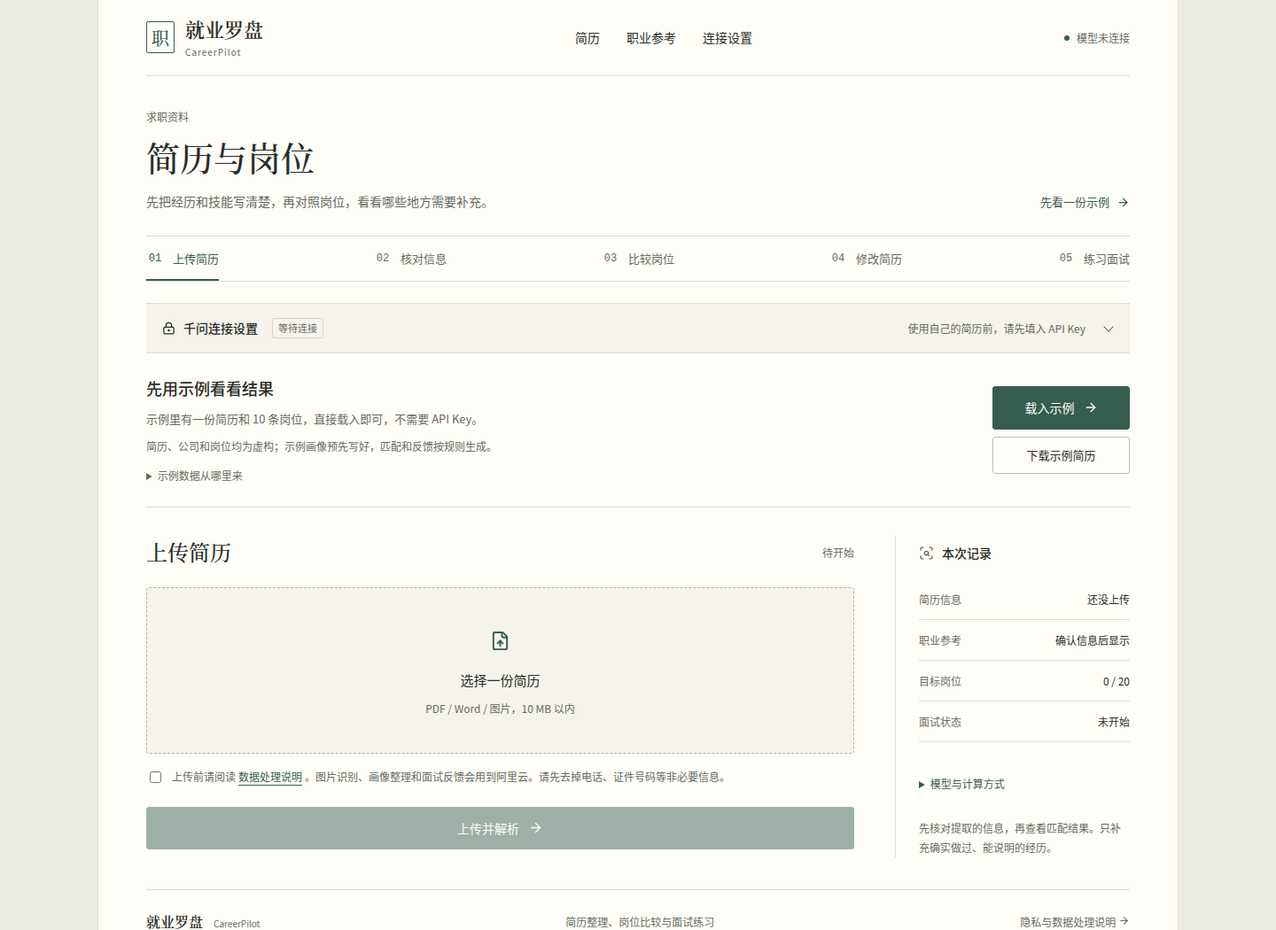
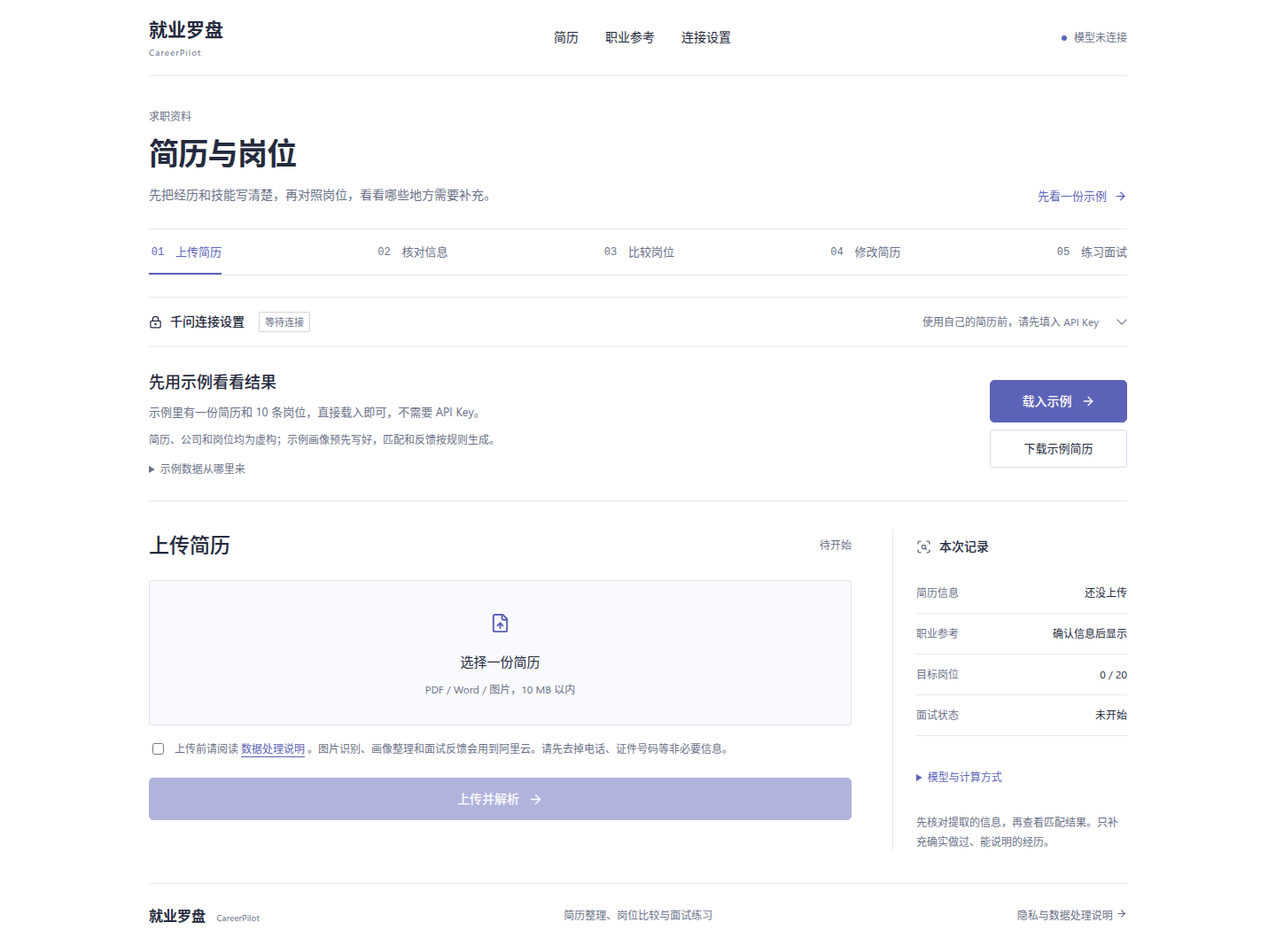
Apply restrained blue-violet palette and unified sans-serif typography

diff --git a/frontend/app/globals.css b/frontend/app/globals.css
@@ -1,49 +1,48 @@
 :root {
-  --ink: #292d28;
-  --muted: #656b61;
-  --line: #deded3;
-  --paper: #fffdf8;
-  --surface: #f5f3ec;
-  --canvas: #ecebe3;
-  --accent: #355e50;
-  --accent-dark: #24483c;
-  --accent-soft: #eaf0e6;
-  --star: #9c742c;
-  --danger: #994b36;
-  --font-body: "PingFang SC", "Microsoft YaHei", "Noto Sans CJK SC", sans-serif;
-  --font-heading: "Noto Serif CJK SC", "Source Han Serif SC", "Songti SC", "STSong", "SimSun", serif;
+  --ink: #242a3d;
+  --muted: #697187;
+  --line: #e5e8f0;
+  --paper: #ffffff;
+  --surface: #f9fafd;
+  --canvas: #ffffff;
+  --accent: #5c63b7;
+  --accent-dark: #454d9b;
+  --accent-soft: #f2f3fb;
+  --star: #7168b1;
+  --danger: #b42318;
+  --font-body: -apple-system, BlinkMacSystemFont, "Segoe UI", "PingFang SC", "Microsoft YaHei", "Noto Sans CJK SC", sans-serif;
+  --font-heading: var(--font-body);
   --font-data: "SFMono-Regular", "Cascadia Code", "Liberation Mono", monospace;
 }
 * { box-sizing: border-box; }
 html { scroll-behavior: smooth; scroll-padding-top: 24px; background: var(--canvas); }
 body { margin: 0; color: var(--ink); background: var(--canvas); font: 400 15px/1.75 var(--font-body); -webkit-font-smoothing: antialiased; }
-::selection { color: #fff; background: var(--accent); }
+::selection { color: #ffffff; background: var(--accent); }
 button, input, select, textarea { font: inherit; }
 a { color: inherit; text-underline-offset: 4px; }
 button, a, input, select, textarea, summary { -webkit-tap-highlight-color: transparent; }
 :where(button, a, input, select, textarea, summary):focus-visible { outline: 2px solid var(--accent); outline-offset: 4px; }
 button:disabled { cursor: not-allowed; opacity: .48; }
 button svg, .notice svg, .config-privacy svg { flex-shrink: 0; }
-.shell { max-width: 1220px; min-height: 100vh; margin: 0 auto; padding: 0 54px 28px; background: var(--paper); border-inline: 1px solid #dcdccf; }
-.skip-link { position: fixed; top: 12px; left: 12px; z-index: 20; padding: 10px 18px; background: var(--accent); color: #fff; transform: translateY(-160%); }
+.shell { max-width: 1200px; min-height: 100vh; margin: 0 auto; padding: 0 48px 28px; background: var(--paper); }
+.skip-link { position: fixed; top: 12px; left: 12px; z-index: 20; padding: 10px 18px; background: var(--accent); color: #ffffff; transform: translateY(-160%); }
 .skip-link:focus { transform: translateY(0); }
 .topbar { min-height: 86px; display: flex; align-items: center; justify-content: space-between; gap: 24px; border-bottom: 1px solid var(--line); }
-.brand { display: inline-flex; align-items: center; gap: 12px; color: var(--ink); text-decoration: none; font: 600 22px/1.2 var(--font-heading); }
-.brand-mark { display: grid; place-items: center; width: 32px; height: 36px; border: 1px solid var(--accent); color: var(--accent); font: 500 20px var(--font-heading); border-radius: 2px; }
+.brand { display: inline-flex; align-items: center; gap: 12px; color: var(--ink); text-decoration: none; font: 600 21px/1.2 var(--font-heading); }
 .brand small { display: block; margin-top: 7px; color: var(--muted); font: 400 10px/1.2 var(--font-body); letter-spacing: 1px; }
 .topnav { display: flex; gap: 30px; }
 .topnav a { font-size: 14px; text-decoration: none; }
 .topnav a:hover, .text-link:hover { color: var(--accent); text-decoration: underline; }
 .topbar-meta { display: flex; align-items: center; gap: 8px; color: var(--muted); font-size: 12px; }
-.status-dot, .mini-dot { display: inline-block; flex-shrink: 0; width: 6px; height: 6px; border-radius: 50%; background: #989d91; }
+.status-dot, .mini-dot { display: inline-block; flex-shrink: 0; width: 6px; height: 6px; border-radius: 50%; background: #9b9b9b; }
 .status-dot.online { background: var(--accent); }
 .status-dot.offline { background: var(--danger); }
 .workspace-intro { display: flex; justify-content: space-between; align-items: flex-end; gap: 24px; padding: 35px 0 26px; }
-.workspace-intro h1 { margin: 0; font: 500 clamp(30px, 3vw, 38px)/1.4 var(--font-heading); letter-spacing: 0; }
+.workspace-intro h1 { margin: 0; font: 600 clamp(29px, 3vw, 34px)/1.35 var(--font-heading); letter-spacing: -.7px; }
 .workspace-intro > div > p:last-child { margin: 12px 0 0; color: var(--muted); font-size: 14px; }
 .page-label { margin: 0 0 8px; color: var(--muted); font-size: 12px; }
 .text-link { display: inline-flex; align-items: center; gap: 8px; color: var(--accent); font-size: 13px; text-decoration: none; white-space: nowrap; }
-h2 { margin: 0; font: 500 24px/1.5 var(--font-heading); }
+h2 { margin: 0; font: 500 23px/1.5 var(--font-heading); }
 h3, h4 { margin: 0; font-weight: 600; }
 .stepper { display: flex; justify-content: space-between; gap: 20px; border-block: 1px solid var(--line); }
 .step { display: flex; align-items: center; gap: 10px; padding: 14px 0 12px; color: var(--muted); border-bottom: 2px solid transparent; text-decoration: none; font-size: 13px; white-space: nowrap; }
@@ -51,33 +50,33 @@ h3, h4 { margin: 0; font-weight: 600; }
 .step.complete { color: var(--ink); }
 .step-index { display: grid; place-items: center; min-width: 20px; font: 400 12px var(--font-data); color: var(--muted); }
 .step.active .step-index, .step.complete .step-index { color: var(--accent); }
-.cloud-panel { margin-top: 24px; border-block: 1px solid var(--line); background: var(--surface); }
-.connection-summary { display: flex; align-items: center; gap: 16px; padding: 15px 18px; cursor: pointer; list-style: none; }
+.cloud-panel { margin-top: 24px; border-block: 1px solid var(--line); background: transparent; }
+.connection-summary { display: flex; align-items: center; gap: 16px; padding: 15px 0; cursor: pointer; list-style: none; }
 .connection-summary::-webkit-details-marker { display: none; }
 .connection-name { display: inline-flex; align-items: center; gap: 9px; font-weight: 500; font-size: 14px; }
 .connection-summary-note { margin-left: auto; color: var(--muted); font-size: 12px; }
 .connection-toggle { display: block; width: 8px; height: 8px; margin: -4px 2px 0 6px; border-right: 1px solid var(--muted); border-bottom: 1px solid var(--muted); transform: rotate(45deg); }
 .cloud-panel[open] .connection-toggle { transform: rotate(225deg); margin-top: 4px; }
-.connection-body { display: grid; grid-template-columns: .72fr 1.28fr; gap: 48px; padding: 25px 26px 28px; border-top: 1px solid var(--line); }
+.connection-body { display: grid; grid-template-columns: .72fr 1.28fr; gap: 48px; padding: 25px 0 28px; border-top: 1px solid var(--line); }
 .cloud-intro > p { margin: 14px 0 0; max-width: 280px; color: var(--muted); font-size: 14px; line-height: 1.9; }
 .cloud-intro .connection-note { font-size: 12px; }
 .cloud-form { min-width: 0; }
-.connection-badge { display: inline-block; padding: 1px 6px; color: var(--muted); border: 1px solid #d3d7ca; border-radius: 2px; font-size: 11px; white-space: nowrap; }
-.connection-badge.connected { color: var(--accent); border-color: #bfcfbb; background: var(--accent-soft); }
+.connection-badge { display: inline-block; padding: 1px 6px; color: var(--muted); border: 1px solid #d5d5d5; border-radius: 2px; font-size: 11px; white-space: nowrap; }
+.connection-badge.connected { color: var(--accent); border-color: #d9ddf3; background: var(--accent-soft); }
 .field-label { display: block; margin-top: 16px; color: var(--ink); font-size: 14px; }
-.text-input, .job-input { width: 100%; border: 1px solid #c9cebf; border-radius: 3px; color: var(--ink); background: #fffefa; font-size: 15px; }
+.text-input, .job-input { width: 100%; border: 1px solid #d5dbea; border-radius: 3px; color: var(--ink); background: #fefefe; font-size: 15px; }
 .text-input { height: 44px; padding: 0 12px; margin-top: 7px; }
-.text-input::placeholder, .job-input::placeholder { color: #7d8477; }
-.text-input:focus, .job-input:focus { outline: 2px solid #d8e2d0; border-color: var(--accent); }
-.text-input:disabled { color: var(--muted); background: #efeee7; }
+.text-input::placeholder, .job-input::placeholder { color: #828282; }
+.text-input:focus, .job-input:focus { outline: 2px solid #e6e8f8; border-color: var(--accent); }
+.text-input:disabled { color: var(--muted); background: #eeeeee; }
 .key-input { font-family: var(--font-data); font-size: 14px; }
 .key-help { margin: 10px 0 0; color: var(--muted); font-size: 12px; line-height: 1.8; }
 .config-fields { display: grid; grid-template-columns: 1fr 1fr; gap: 18px; }
 .config-privacy { display: flex; align-items: flex-start; gap: 8px; margin: 17px 0 18px; color: var(--muted); font-size: 12px; }
 .config-privacy svg { margin-top: 3px; }
-.primary-button { display: inline-flex; align-items: center; justify-content: center; gap: 10px; width: 100%; min-height: 44px; margin-top: 16px; padding: 11px 20px; color: #fffdf8; background: var(--accent); border: 1px solid var(--accent); border-radius: 3px; cursor: pointer; font-size: 14px; text-decoration: none; }
+.primary-button { display: inline-flex; align-items: center; justify-content: center; gap: 10px; width: 100%; min-height: 44px; margin-top: 16px; padding: 11px 20px; color: #fdfdfd; background: var(--accent); border: 1px solid var(--accent); border-radius: 5px; cursor: pointer; font-size: 14px; font-weight: 500; text-decoration: none; }
 .primary-button:hover:not(:disabled) { background: var(--accent-dark); border-color: var(--accent-dark); }
-.secondary-button { display: inline-flex; align-items: center; justify-content: center; gap: 8px; width: 100%; min-height: 42px; margin-top: 11px; padding: 9px 17px; color: var(--ink); background: transparent; border: 1px solid #bcc4b4; border-radius: 3px; cursor: pointer; font-size: 13px; text-decoration: none; }
+.secondary-button { display: inline-flex; align-items: center; justify-content: center; gap: 8px; width: 100%; min-height: 42px; margin-top: 11px; padding: 9px 17px; color: var(--ink); background: transparent; border: 1px solid #d7dced; border-radius: 3px; cursor: pointer; font-size: 13px; text-decoration: none; }
 .secondary-button:hover:not(:disabled) { background: var(--accent-soft); border-color: var(--accent); }
 .primary-button, .secondary-button, .match-actions button { transition: background .15s, border-color .15s; }
 .compact { width: auto; margin-top: 0; }
@@ -96,7 +95,7 @@ summary { cursor: pointer; }
 .workspace-grid { display: grid; grid-template-columns: minmax(0, 1fr) 265px; gap: 46px; padding: 32px 0 36px; }
 .section-heading { display: flex; justify-content: space-between; align-items: center; gap: 18px; margin-bottom: 22px; }
 .stage-tag { color: var(--muted); font-size: 12px; white-space: nowrap; }
-.dropzone { display: flex; flex-direction: column; align-items: center; justify-content: center; position: relative; min-height: 188px; padding: 24px; border: 1px dashed #adb6a3; background: var(--surface); border-radius: 3px; cursor: pointer; }
+.dropzone { display: flex; flex-direction: column; align-items: center; justify-content: center; position: relative; min-height: 164px; padding: 24px; border: 1px solid #e0e4f0; background: var(--surface); border-radius: 3px; cursor: pointer; }
 .dropzone:hover, .dropzone:focus-within { border-color: var(--accent); background: var(--accent-soft); }
 .dropzone input { position: absolute; width: 1px; height: 1px; opacity: 0; overflow: hidden; }
 .upload-icon { display: grid; place-items: center; width: 36px; height: 38px; margin-bottom: 12px; color: var(--accent); }
@@ -107,8 +106,8 @@ summary { cursor: pointer; }
 .privacy-consent a { margin-inline: 3px; color: var(--accent); }
 .notice { display: flex; align-items: flex-start; gap: 9px; margin-top: 14px; padding: 12px 14px; border-left: 2px solid; background: var(--surface); color: var(--ink); font-size: 13px; line-height: 1.8; overflow-wrap: anywhere; }
 .notice svg { flex-shrink: 0; margin-top: 3px; }
-.notice.error { color: var(--danger); border-color: #b47b66; background: #f8efe7; }
-.notice.success { color: var(--accent-dark); border-color: #a8bda0; background: #edf2e8; }
+.notice.error { color: var(--danger); border-color: #868686; background: #f0f0f0; }
+.notice.success { color: var(--accent-dark); border-color: #b6b6b6; background: #f0f0f0; }
 .notice strong { overflow-wrap: anywhere; font-weight: 500; }
 .info-panel { align-self: start; padding: 7px 0 0 26px; border-left: 1px solid var(--line); }
 .panel-title { display: flex; align-items: center; gap: 9px; font-size: 14px; font-weight: 500; }
@@ -132,9 +131,9 @@ summary { cursor: pointer; }
 .profile-preview-head strong { font-weight: 500; }
 .profile-preview-head span { color: var(--accent); font-size: 12px; }
 .skill-list { display: flex; flex-wrap: wrap; gap: 8px; margin-top: 14px; }
-.skill-list span { padding: 3px 9px; border: 1px solid #d1d6c8; border-radius: 2px; color: #4c5648; font-size: 12px; }
+.skill-list span { padding: 3px 9px; border: 1px solid #d4d4d4; border-radius: 2px; color: #535353; font-size: 12px; }
 .skill-list small { color: var(--muted); font-size: 12px; }
-.profile-warning { margin: 13px 0 0; color: #80663f; font-size: 12px; }
+.profile-warning { margin: 13px 0 0; color: #696969; font-size: 12px; }
 .analysis-section, .next-stage { padding: 32px 0 36px; border-top: 1px solid var(--line); }
 .loading-copy { padding: 20px 0; color: var(--muted); font-size: 14px; }
 .analysis-retry .secondary-button { margin-top: 12px; }
@@ -154,7 +153,7 @@ summary { cursor: pointer; }
 .dimension ul { margin-bottom: 0; padding-left: 18px; }
 .dimension li { margin: 5px 0; overflow-wrap: anywhere; }
 .star-rating { display: inline-flex; flex-shrink: 0; gap: 3px; font-size: 18px; line-height: 1; }
-.star { position: relative; color: #d8d6c8; }
+.star { position: relative; color: #d5d5d5; }
 .star > span { position: absolute; inset: 0 auto 0 0; overflow: hidden; color: var(--star); }
 .analysis-notice { margin: 18px 0 0; color: var(--muted); font-size: 12px; }
 .analysis-notice summary { color: var(--accent); }
@@ -164,7 +163,7 @@ summary { cursor: pointer; }
 .career-rank { padding-top: 4px; color: var(--muted); font: 400 12px/1.5 var(--font-data); }
 .career-title h4 { font-size: 17px; font-weight: 500; }
 .career-title > span { display: block; margin-top: 6px; color: var(--muted); font-size: 12px; overflow-wrap: anywhere; }
-.career-reason { margin: 12px 0; color: #50584b; font-size: 14px; line-height: 1.85; overflow-wrap: anywhere; }
+.career-reason { margin: 12px 0; color: #555555; font-size: 14px; line-height: 1.85; overflow-wrap: anywhere; }
 .career-skills { display: flex; flex-wrap: wrap; gap: 5px 20px; }
 .career-skills p { margin: 0; color: var(--muted); font-size: 12px; overflow-wrap: anywhere; }
 .career-skills b { margin-right: 9px; color: var(--ink); font-weight: 500; }
@@ -176,7 +175,7 @@ summary { cursor: pointer; }
 .career-fit > strong > small { margin-left: 4px; color: var(--muted); font: 400 11px var(--font-body); }
 .career-fit .star-rating { font-size: 15px; }
 .career-fit > span:last-child { color: var(--muted); font-size: 12px; }
-.catalog-note { margin-top: 20px; padding: 17px 20px; border-left: 2px solid #b7c2ac; background: var(--surface); color: var(--muted); font-size: 12px; line-height: 1.85; overflow-wrap: anywhere; }
+.catalog-note { margin-top: 20px; padding: 17px 20px; border-left: 2px solid #bebebe; background: var(--surface); color: var(--muted); font-size: 12px; line-height: 1.85; overflow-wrap: anywhere; }
 .catalog-note strong { color: var(--ink); font-weight: 500; }
 .catalog-note p { margin: 8px 0; }
 .catalog-note details { margin-top: 10px; }
@@ -199,36 +198,36 @@ summary { cursor: pointer; }
 .match-main strong { font-size: 16px; font-weight: 500; }
 .match-main > span { color: var(--muted); font-size: 13px; }
 .match-main small { color: var(--muted); font-size: 12px; overflow-wrap: anywhere; }
-.match-main .constraint-warning { color: #87552f; }
+.match-main .constraint-warning { color: #5d5d5d; }
 .match-evidence { color: var(--muted); font-size: 12px; }
 .match-evidence summary { color: var(--accent); }
 .match-actions { display: flex; gap: 9px; margin-top: 5px; }
-.match-actions button { min-height: 34px; padding: 5px 12px; border: 1px solid #c2c9b9; border-radius: 3px; background: transparent; color: var(--ink); cursor: pointer; font-size: 12px; }
+.match-actions button { min-height: 34px; padding: 5px 12px; border: 1px solid #c6c6c6; border-radius: 3px; background: transparent; color: var(--ink); cursor: pointer; font-size: 12px; }
 .match-actions button:hover { background: var(--accent-soft); }
 .match-score { display: flex; flex-direction: column; align-items: flex-end; min-width: 50px; color: var(--accent); font: 400 29px/1.2 var(--font-heading); }
 .match-score small { margin-top: 5px; font: 400 11px/1.5 var(--font-body); }
-.match-score.risk { color: #8b653d; }
-.report-panel, .interview-panel { margin-top: 26px; padding: 4px 22px 24px; background: var(--surface); border-top: 2px solid #8c9e7e; }
+.match-score.risk { color: #6a6a6a; }
+.report-panel, .interview-panel { margin-top: 26px; padding: 4px 22px 24px; background: var(--surface); border-top: 2px solid #989898; }
 .report-columns { display: grid; grid-template-columns: repeat(3, minmax(0, 1fr)); gap: 22px; }
 .report-columns > div { padding: 14px 0; }
 .report-columns b, .report-notes b, .report-checklist b { font-size: 14px; font-weight: 500; }
-.report-columns p, .interview-summary p { color: #545d4e; font-size: 14px; line-height: 1.85; overflow-wrap: anywhere; }
+.report-columns p, .interview-summary p { color: #5a5a5a; font-size: 14px; line-height: 1.85; overflow-wrap: anywhere; }
 .report-notes, .report-checklist { margin: 20px 0; color: var(--muted); font-size: 13px; }
 .report-checklist ul { display: grid; grid-template-columns: 1fr 1fr; gap: 8px 22px; margin: 12px 0 0; padding: 0; list-style: none; }
 .report-checklist li { display: flex; gap: 8px; align-items: flex-start; }
 .report-checklist li svg { flex-shrink: 0; margin-top: 5px; color: var(--accent); }
-.interview-question { margin: 0 0 16px; padding: 17px 20px; border-left: 2px solid var(--accent); background: #eeefe5; font-size: 16px; line-height: 1.9; }
+.interview-question { margin: 0 0 16px; padding: 17px 20px; border-left: 2px solid var(--accent); background: #eeeeee; font-size: 16px; line-height: 1.9; }
 .interview-panel .compact { margin-top: 12px; }
 .interview-panel .field-label { margin-bottom: 10px; }
 .interview-summary { padding: 7px 0; }
 .interview-turns { display: grid; gap: 16px; margin-bottom: 24px; }
-.interview-turn { padding: 17px 0; border-top: 1px solid #d5dbcb; font-size: 14px; }
+.interview-turn { padding: 17px 0; border-top: 1px solid #d9d9d9; font-size: 14px; }
 .interview-turn > div { display: flex; justify-content: space-between; gap: 15px; }
 .interview-turn > div strong { font-size: 13px; font-weight: 500; }
 .interview-turn > div span { color: var(--muted); font: 400 12px var(--font-data); }
 .interview-turn p { margin: 12px 0 0; line-height: 1.9; overflow-wrap: anywhere; }
 .turn-answer { white-space: pre-wrap; }
-.turn-feedback { color: #53654d; }
+.turn-feedback { color: #5f5f5f; }
 footer { display: flex; align-items: center; justify-content: space-between; gap: 24px; padding: 25px 0 0; border-top: 1px solid var(--line); color: var(--muted); font-size: 12px; }
 .footer-brand { font-size: 16px; }
 .footer-brand small { display: inline; margin-left: 8px; font-size: 10px; letter-spacing: 0; }
@@ -238,15 +237,14 @@ footer > a:last-child:hover { text-decoration: underline; }
 .privacy-back { display: inline-flex; gap: 8px; align-items: center; color: var(--accent); font-size: 13px; text-decoration: none; }
 .privacy-page h1 { margin: 26px 0 18px; font: 500 30px/1.5 var(--font-heading); }
 .privacy-page h2 { margin: 30px 0 13px; font-size: 22px; }
-.privacy-page p, .privacy-page li { color: #555f50; font-size: 15px; line-height: 1.95; }
+.privacy-page p, .privacy-page li { color: #5c5c5c; font-size: 15px; line-height: 1.95; }
 .privacy-page ul, .privacy-page ol { padding-left: 24px; }
 .privacy-page li { margin: 12px 0; }
-.privacy-warning { padding: 15px 18px; border-left: 2px solid #b4bfaa; background: var(--surface); }
+.privacy-warning { padding: 15px 18px; border-left: 2px solid #bbbbbb; background: var(--surface); }
 @media (max-width: 780px) {
   .shell { padding: 0 22px 24px; border: 0; }
   .topbar { min-height: 74px; gap: 16px; }
   .brand { font-size: 20px; gap: 9px; }
-  .brand-mark { width: 28px; height: 32px; font-size: 18px; }
   .brand small { font-size: 9px; }
   .topnav { display: none; }
   .topbar-meta { font-size: 11px; }

diff --git a/frontend/app/page.tsx b/frontend/app/page.tsx
@@ -491,7 +491,6 @@ export default function Home() {
       <a className="skip-link" href="#workspace">跳到求职工作台</a>
       <header className="topbar">
         <a className="brand" href="/" aria-label="CareerPilot 首页">
-          <span className="brand-mark" aria-hidden="true">职</span>
           <span>就业罗盘<small>CareerPilot</small></span>
         </a>
         <nav className="topnav" aria-label="主导航"><a href="#workspace">简历</a><a href={profile?.status === "confirmed" ? "#analysis" : "#workspace"}>职业参考</a><a href="#cloud-config" onClick={() => { const panel = document.getElementById("cloud-config"); if (panel instanceof HTMLDetailsElement) panel.open = true; }}>连接设置</a></nav>

diff --git a/backend/app/services/exporter.py b/backend/app/services/exporter.py
@@ -112,7 +112,7 @@ def _interview(data: Mapping) -> str:
 
 
 STYLES = """
-:root{color-scheme:light;--ink:#292d28;--muted:#656b61;--line:#deded3;--accent:#355e50;--paper:#fffdf8}*{box-sizing:border-box}body{margin:0;background:#ecebe3;color:var(--ink);font:14px/1.85 "PingFang SC","Microsoft YaHei","Noto Sans CJK SC",sans-serif;overflow-wrap:anywhere}main{max-width:1020px;margin:32px auto;background:var(--paper);border:1px solid #deded3}.toolbar{max-width:1020px;margin:24px auto -16px;text-align:right;color:var(--muted);font-size:12px}.toolbar button{font:inherit;color:var(--ink);background:#fff;border:1px solid #d3d8c9;border-radius:6px;padding:8px 14px;cursor:pointer}.report-header{padding:42px 56px 36px;border-top:4px solid var(--ink);border-bottom:1px solid var(--line)}.brand-row{display:flex;justify-content:space-between;align-items:center;margin-bottom:40px}.wordmark{font-weight:750;font-size:19px;letter-spacing:-.5px}.brand-tag{font-size:10px;letter-spacing:2px;color:var(--muted);margin-left:10px}.edition{font-size:11px;color:var(--muted)}h1{font-family:"Noto Serif CJK SC","Songti SC","STSong","SimSun",serif;font-size:30px;font-weight:500;letter-spacing:0;line-height:1.4;margin:0 0 14px}.subtitle{font-size:15px;color:var(--muted);margin:0}.meta{display:flex;gap:26px;flex-wrap:wrap;margin-top:28px;font-size:12px;color:var(--muted)}.meta b{display:block;font-weight:550;color:var(--ink)}.report-body{padding:8px 56px 36px}.report-section{padding:28px 0;border-bottom:1px solid var(--line)}.section-title{display:flex;gap:13px;align-items:center;margin-bottom:18px}.section-title>span{font-size:11px;color:var(--accent);font-weight:700;letter-spacing:1px}h2{font-family:"Noto Serif CJK SC","Songti SC","STSong","SimSun",serif;font-weight:500;font-size:19px;line-height:1.5;letter-spacing:0;margin:0}h3{font-size:14px;margin:0;font-weight:650}p{margin:8px 0}.muted,.explanation{color:var(--muted)}.explanation{font-size:12px;line-height:1.9;margin:0 0 20px}.item-list{list-style:none;padding:0;margin:0;counter-reset:item}.item-list li{position:relative;padding:11px 0 11px 24px;border-bottom:1px solid #e9eadf;white-space:pre-line}.item-list li:last-child{border-bottom:0}.item-list li:before{content:"";width:5px;height:5px;background:var(--accent);position:absolute;left:3px;top:22px;border-radius:50%}.priority .item-list li:before{background:#b7884a}.checklist .item-list li:before{width:10px;height:10px;background:none;border:1px solid #a4a7b2;top:18px;border-radius:2px}.tags{display:flex;gap:8px;flex-wrap:wrap}.tag{background:#f4f3eb;border:1px solid #d9dece;color:#505c48;border-radius:4px;padding:4px 10px;font-size:12px}.profile-grid{display:grid;grid-template-columns:275px 1fr;gap:30px;align-items:start}.radar-panel{position:sticky;top:20px}.radar{width:100%;max-width:320px;display:block}.radar-grid{fill:none;stroke:#d9dece;stroke-width:1}.radar-axis{stroke:#e0e4d7;stroke-width:1}.radar-fill{fill:#355e5024;stroke:#355e50;stroke-width:2}.radar text{font-size:11px;fill:#626a5c}.radar-caption{font-size:10px;text-align:center;color:var(--muted);letter-spacing:1px}.dimension{padding:13px 0;border-bottom:1px solid #e5e7dc}.dimension:first-child{padding-top:0}.dimension-heading{display:flex;justify-content:space-between;align-items:center;gap:12px}.star-rating{display:inline-flex;align-items:center;gap:10px;white-space:nowrap;color:#9c742c;font-size:16px;letter-spacing:1px}.empty-stars{color:#d1d2c4}.star-value{font-size:12px;letter-spacing:0;color:var(--ink);font-variant-numeric:tabular-nums}.star-value small{color:var(--muted);font-weight:400;font-size:10px}.dimension-note{font-size:11px;color:var(--muted);line-height:1.8}.dimension blockquote{margin:8px 0 0;padding:6px 12px;border-left:2px solid #c3cfb8;color:#626a5c;font-size:11px;line-height:1.8}.career-list{display:grid;grid-template-columns:1fr 1fr;gap:15px}.career-card{padding:20px;border:1px solid var(--line);border-radius:5px;break-inside:avoid-page;page-break-inside:avoid}.career-heading{display:flex;align-items:flex-start;gap:10px}.rank{color:var(--accent);font-size:11px;font-weight:650;padding-top:2px}.career-original{font-size:9px;color:var(--muted);margin:2px 0 12px;line-height:1.5}.career-score{margin-left:auto;font-size:20px;line-height:1.3;font-weight:650;white-space:nowrap;font-variant-numeric:tabular-nums}.career-score small{display:block;font-size:8px;font-weight:400;color:var(--muted)}.career-card>p{font-size:11px;line-height:1.9}.career-reason{color:var(--muted)}.career-evidence{font-size:10px;color:#626a5c;border-top:1px solid #e5e7dc;padding-top:8px}.career-evidence b{font-weight:550;color:#414c39}.career-foot{display:flex;justify-content:space-between;align-items:center;gap:8px;margin-top:13px}.career-foot>span:last-child{font-size:8px;color:var(--muted)}.career-foot .star-rating{font-size:12px;gap:6px}.source-note,.data-note{margin-top:22px;padding:14px 16px;background:#f3f2ea;color:#626a5c;font-size:11px;line-height:1.9;border-left:2px solid #c3cfb8}.source-url{font-size:9px}.turn-list{display:grid;gap:20px}.turn-card{border:1px solid var(--line);padding:22px 25px;border-radius:5px}.turn-head{display:flex;justify-content:space-between;gap:14px;align-items:center;margin-bottom:14px}.turn-label,.small-label{font-size:9px;letter-spacing:1px;color:var(--muted);font-weight:650}.turn-label{color:var(--accent)}.turn-card h3{font-size:15px;line-height:1.9;margin-bottom:17px}.answer,.feedback{padding:12px 15px;background:#f3f2ea;margin-top:10px;border-radius:3px}.answer p,.feedback p{font-size:12px;white-space:pre-wrap;margin:4px 0}.feedback{background:#eff1e7;border-left:2px solid #c3cfb8}.pending{border-style:dashed}.score-banner{display:flex;align-items:center;gap:25px;padding:18px 22px;background:#f3f2ea}.score-banner strong{font-size:31px;line-height:1.1;color:var(--accent)}.score-banner small{font-size:13px;font-weight:400;color:var(--muted)}.score-banner p{font-size:11px;color:var(--muted);margin:0}.report-footer{padding:22px 56px;border-top:1px solid var(--line);display:flex;justify-content:space-between;gap:20px;color:var(--muted);font-size:9px;letter-spacing:.3px}@media(max-width:700px){body{font-size:13px}main{margin:12px}.toolbar{margin:12px 12px 0}.report-header{padding:26px 24px}.report-body{padding:0 24px 24px}.report-footer{padding:20px 24px;display:block}.brand-row{margin-bottom:28px}.brand-tag{display:none}h1{font-size:26px}.profile-grid{grid-template-columns:1fr;gap:16px}.radar-panel{position:static;max-width:300px;margin:auto}.career-list{grid-template-columns:1fr}.meta{gap:16px}.turn-card{padding:18px}.turn-head{gap:8px}.edition{font-size:9px}}@page{size:A4;margin:12mm}@media print{body{background:#fff;font-size:10pt;-webkit-print-color-adjust:exact;print-color-adjust:exact}main{max-width:none;margin:0;box-shadow:none}.toolbar{display:none}.report-header{padding:12mm 7mm 8mm}.report-body{padding:0 7mm 7mm}.report-footer{padding:5mm 7mm;font-size:8pt}.report-section{padding:6mm 0}h2,h3{break-after:avoid-page}p,li{orphans:3;widows:3}.radar-panel{position:static}.dimension,.score-banner,.source-note{break-inside:avoid-page}.career-list{display:block;columns:2;column-gap:4mm}.career-card{display:inline-block;width:100%;margin:0 0 4mm;padding:4mm}.turn-card{padding:5mm;box-decoration-break:clone;-webkit-box-decoration-break:clone}.brand-row{margin-bottom:8mm}.profile-grid{grid-template-columns:62mm 1fr;gap:5mm}.dimension-note{font-size:8pt}.explanation{font-size:8.5pt}.report-footer{break-inside:avoid-page}}
+:root{color-scheme:light;--ink:#242a3d;--muted:#697187;--line:#e5e8f0;--accent:#5c63b7;--paper:#ffffff}*{box-sizing:border-box}a{color:var(--accent);text-underline-offset:3px;text-decoration-thickness:1px}body{margin:0;background:#f7f8fc;color:var(--ink);font:14px/1.85 "PingFang SC","Microsoft YaHei","Noto Sans CJK SC",sans-serif;overflow-wrap:anywhere}main{max-width:1020px;margin:32px auto;background:var(--paper);border:1px solid #dddddd}.toolbar{max-width:1020px;margin:24px auto -16px;text-align:right;color:var(--muted);font-size:12px}.toolbar button{font:inherit;color:var(--ink);background:#ffffff;border:1px solid #d6d6d6;border-radius:6px;padding:8px 14px;cursor:pointer}.report-header{padding:42px 56px 36px;border-top:4px solid var(--ink);border-bottom:1px solid var(--line)}.brand-row{display:flex;justify-content:space-between;align-items:center;margin-bottom:40px}.wordmark{font-weight:600;font-size:19px;letter-spacing:-.5px}.brand-tag{font-size:10px;letter-spacing:2px;color:var(--muted);margin-left:10px}.edition{font-size:11px;color:var(--muted)}h1{font-family:"PingFang SC","Microsoft YaHei","Noto Sans CJK SC",sans-serif;font-size:30px;font-weight:500;letter-spacing:0;line-height:1.4;margin:0 0 14px}.subtitle{font-size:15px;color:var(--muted);margin:0}.meta{display:flex;gap:26px;flex-wrap:wrap;margin-top:28px;font-size:12px;color:var(--muted)}.meta b{display:block;font-weight:550;color:var(--ink)}.report-body{padding:8px 56px 36px}.report-section{padding:28px 0;border-bottom:1px solid var(--line)}.section-title{display:flex;gap:13px;align-items:center;margin-bottom:18px}.section-title>span{font-size:11px;color:var(--accent);font-weight:700;letter-spacing:1px}h2{font-family:"PingFang SC","Microsoft YaHei","Noto Sans CJK SC",sans-serif;font-weight:500;font-size:19px;line-height:1.5;letter-spacing:0;margin:0}h3{font-size:14px;margin:0;font-weight:650}p{margin:8px 0}.muted,.explanation{color:var(--muted)}.explanation{font-size:12px;line-height:1.9;margin:0 0 20px}.item-list{list-style:none;padding:0;margin:0;counter-reset:item}.item-list li{position:relative;padding:11px 0 11px 24px;border-bottom:1px solid #e9e9e9;white-space:pre-line}.item-list li:last-child{border-bottom:0}.item-list li:before{content:"";width:5px;height:5px;background:var(--accent);position:absolute;left:3px;top:22px;border-radius:50%}.priority .item-list li:before{background:#8e8e8e}.checklist .item-list li:before{width:10px;height:10px;background:none;border:1px solid #a7a7a7;top:18px;border-radius:2px}.tags{display:flex;gap:8px;flex-wrap:wrap}.tag{background:#f3f3f3;border:1px solid #dcdcdc;color:#585858;border-radius:4px;padding:4px 10px;font-size:12px}.profile-grid{display:grid;grid-template-columns:275px 1fr;gap:30px;align-items:start}.radar-panel{position:sticky;top:20px}.radar{width:100%;max-width:320px;display:block}.radar-grid{fill:none;stroke:#dcdcdc;stroke-width:1}.radar-axis{stroke:#e2e2e2;stroke-width:1}.radar-fill{fill:#5c63b71a;stroke:#5c63b7;stroke-width:1.8}.radar text{font-size:11px;fill:#676767}.radar-caption{font-size:10px;text-align:center;color:var(--muted);letter-spacing:1px}.dimension{padding:13px 0;border-bottom:1px solid #e6e6e6}.dimension:first-child{padding-top:0}.dimension-heading{display:flex;justify-content:space-between;align-items:center;gap:12px}.star-rating{display:inline-flex;align-items:center;gap:10px;white-space:nowrap;color:#7168b1;font-size:16px;letter-spacing:1px}.empty-stars{color:#d1d1d1}.star-value{font-size:12px;letter-spacing:0;color:var(--ink);font-variant-numeric:tabular-nums}.star-value small{color:var(--muted);font-weight:400;font-size:10px}.dimension-note{font-size:11px;color:var(--muted);line-height:1.8}.dimension blockquote{margin:8px 0 0;padding:6px 12px;border-left:2px solid #d9ddf1;color:#676767;font-size:11px;line-height:1.8}.career-list{display:grid;grid-template-columns:1fr 1fr;gap:15px}.career-card{padding:20px;border:1px solid var(--line);border-radius:5px;break-inside:avoid-page;page-break-inside:avoid}.career-heading{display:flex;align-items:flex-start;gap:10px}.rank{color:var(--accent);font-size:11px;font-weight:650;padding-top:2px}.career-original{font-size:9px;color:var(--muted);margin:2px 0 12px;line-height:1.5}.career-score{margin-left:auto;font-size:20px;line-height:1.3;font-weight:650;white-space:nowrap;font-variant-numeric:tabular-nums}.career-score small{display:block;font-size:8px;font-weight:400;color:var(--muted)}.career-card>p{font-size:11px;line-height:1.9}.career-reason{color:var(--muted)}.career-evidence{font-size:10px;color:#676767;border-top:1px solid #e6e6e6;padding-top:8px}.career-evidence b{font-weight:550;color:#484848}.career-foot{display:flex;justify-content:space-between;align-items:center;gap:8px;margin-top:13px}.career-foot>span:last-child{font-size:8px;color:var(--muted)}.career-foot .star-rating{font-size:12px;gap:6px}.source-note,.data-note{margin-top:22px;padding:14px 16px;background:#f5f6fb;color:#676767;font-size:11px;line-height:1.9;border-left:2px solid #d9ddf1}.source-url{font-size:9px}.turn-list{display:grid;gap:20px}.turn-card{border:1px solid var(--line);padding:22px 25px;border-radius:5px}.turn-head{display:flex;justify-content:space-between;gap:14px;align-items:center;margin-bottom:14px}.turn-label,.small-label{font-size:9px;letter-spacing:1px;color:var(--muted);font-weight:650}.turn-label{color:var(--accent)}.turn-card h3{font-size:15px;line-height:1.9;margin-bottom:17px}.answer,.feedback{padding:12px 15px;background:#f5f6fb;margin-top:10px;border-radius:3px}.answer p,.feedback p{font-size:12px;white-space:pre-wrap;margin:4px 0}.feedback{background:#f0f0f0;border-left:2px solid #d9ddf1}.pending{border-style:dashed}.score-banner{display:flex;align-items:center;gap:25px;padding:18px 22px;background:#f5f6fb}.score-banner strong{font-size:31px;line-height:1.1;color:var(--accent)}.score-banner small{font-size:13px;font-weight:400;color:var(--muted)}.score-banner p{font-size:11px;color:var(--muted);margin:0}.report-footer{padding:22px 56px;border-top:1px solid var(--line);display:flex;justify-content:space-between;gap:20px;color:var(--muted);font-size:9px;letter-spacing:.3px}@media(max-width:700px){body{font-size:13px}main{margin:12px}.toolbar{margin:12px 12px 0}.report-header{padding:26px 24px}.report-body{padding:0 24px 24px}.report-footer{padding:20px 24px;display:block}.brand-row{margin-bottom:28px}.brand-tag{display:none}h1{font-size:26px}.profile-grid{grid-template-columns:1fr;gap:16px}.radar-panel{position:static;max-width:300px;margin:auto}.career-list{grid-template-columns:1fr}.meta{gap:16px}.turn-card{padding:18px}.turn-head{gap:8px}.edition{font-size:9px}}@page{size:A4;margin:12mm}@media print{body{background:#ffffff;font-size:10pt;-webkit-print-color-adjust:exact;print-color-adjust:exact}main{max-width:none;margin:0;box-shadow:none}.toolbar{display:none}.report-header{padding:12mm 7mm 8mm}.report-body{padding:0 7mm 7mm}.report-footer{padding:5mm 7mm;font-size:8pt}.report-section{padding:6mm 0}h2,h3{break-after:avoid-page}p,li{orphans:3;widows:3}.radar-panel{position:static}.dimension,.score-banner,.source-note{break-inside:avoid-page}.career-list{display:block;columns:2;column-gap:4mm}.career-card{display:inline-block;width:100%;margin:0 0 4mm;padding:4mm}.turn-card{padding:5mm;box-decoration-break:clone;-webkit-box-decoration-break:clone}.brand-row{margin-bottom:8mm}.profile-grid{grid-template-columns:62mm 1fr;gap:5mm}.dimension-note{font-size:8pt}.explanation{font-size:8.5pt}.report-footer{break-inside:avoid-page}}
 @media print{.career-report{break-before:page}.report-header{padding:5mm 7mm 4mm}.brand-row{margin-bottom:4mm}h1{font-size:23pt}.kicker{margin-bottom:3mm}.meta{margin-top:4mm}.report-section{padding:4mm 0}.section-title{margin-bottom:3mm}.profile-grid{grid-template-columns:54mm 1fr;gap:5mm}.dimension{padding:2mm 0}.dimension-note{margin:1mm 0;font-size:8pt;line-height:1.55}.dimension blockquote{font-size:7.5pt;line-height:1.5;margin:1mm 0 0;padding:1mm 2mm}.dimension blockquote+blockquote{display:none}.career-list{display:grid;grid-template-columns:1fr 1fr;gap:3mm;columns:auto}.career-card{display:block;margin:0;padding:3mm}.career-card>p{font-size:8pt}.career-definition{font-size:8pt;color:var(--muted)}.career-evidence{font-size:7.5pt}.source-note,.data-note{font-size:7.5pt;line-height:1.6;padding:3mm;margin-top:3mm}}
 """
 

diff --git a/docs/DEVELOPMENT.md b/docs/DEVELOPMENT.md
@@ -2,7 +2,7 @@
 
 技术栈：Next.js 16 / React 19、FastAPI / Python 3.12+、SQLite；Node.js 24、pnpm 11。单实例、单 API 进程。
 
-页面样式集中在 `frontend/app/globals.css`：暖白 `#FFFDF8`、正文 `#292D28`、交互色 `#355E50`。标题使用 Noto Serif / 宋体类系统字体，正文使用苹方、微软雅黑或 Noto Sans，不加载外部字体。文案直接说明操作和结果，来源、评分口径等长说明默认收起。
+页面样式集中在 `frontend/app/globals.css`：纯白 `#FFFFFF`、正文 `#242A3D`、主按钮蓝紫 `#5C63B7`、星图紫 `#7168B1`、浅底 `#F9FAFD`。强调色用于按钮、选中状态与图表，不铺大面积渐变。标题和正文统一使用系统无衬线字体（苹方、微软雅黑或 Noto Sans），不加载外部字体。文案直接说明操作和结果，来源、评分口径等长说明默认收起。
 
 ## 启动与发布
 
